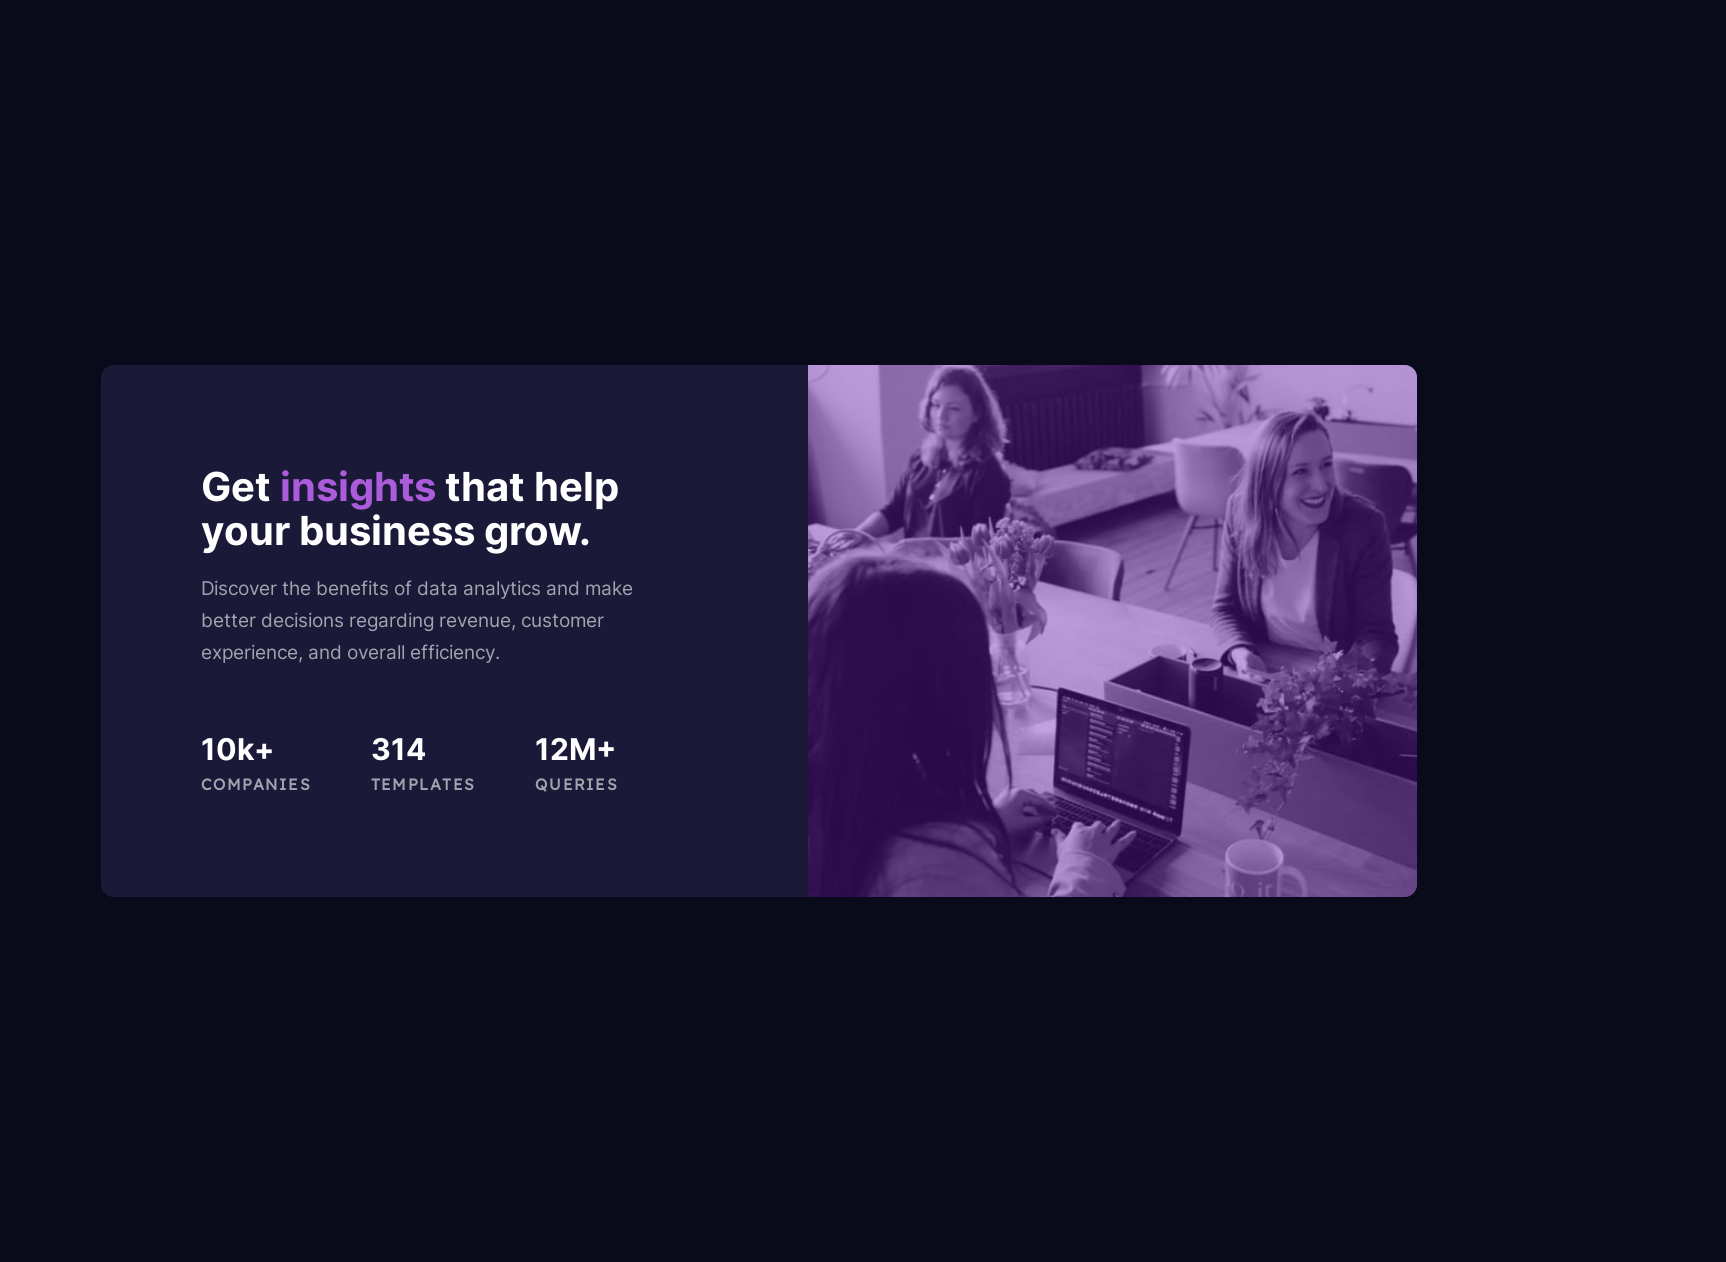
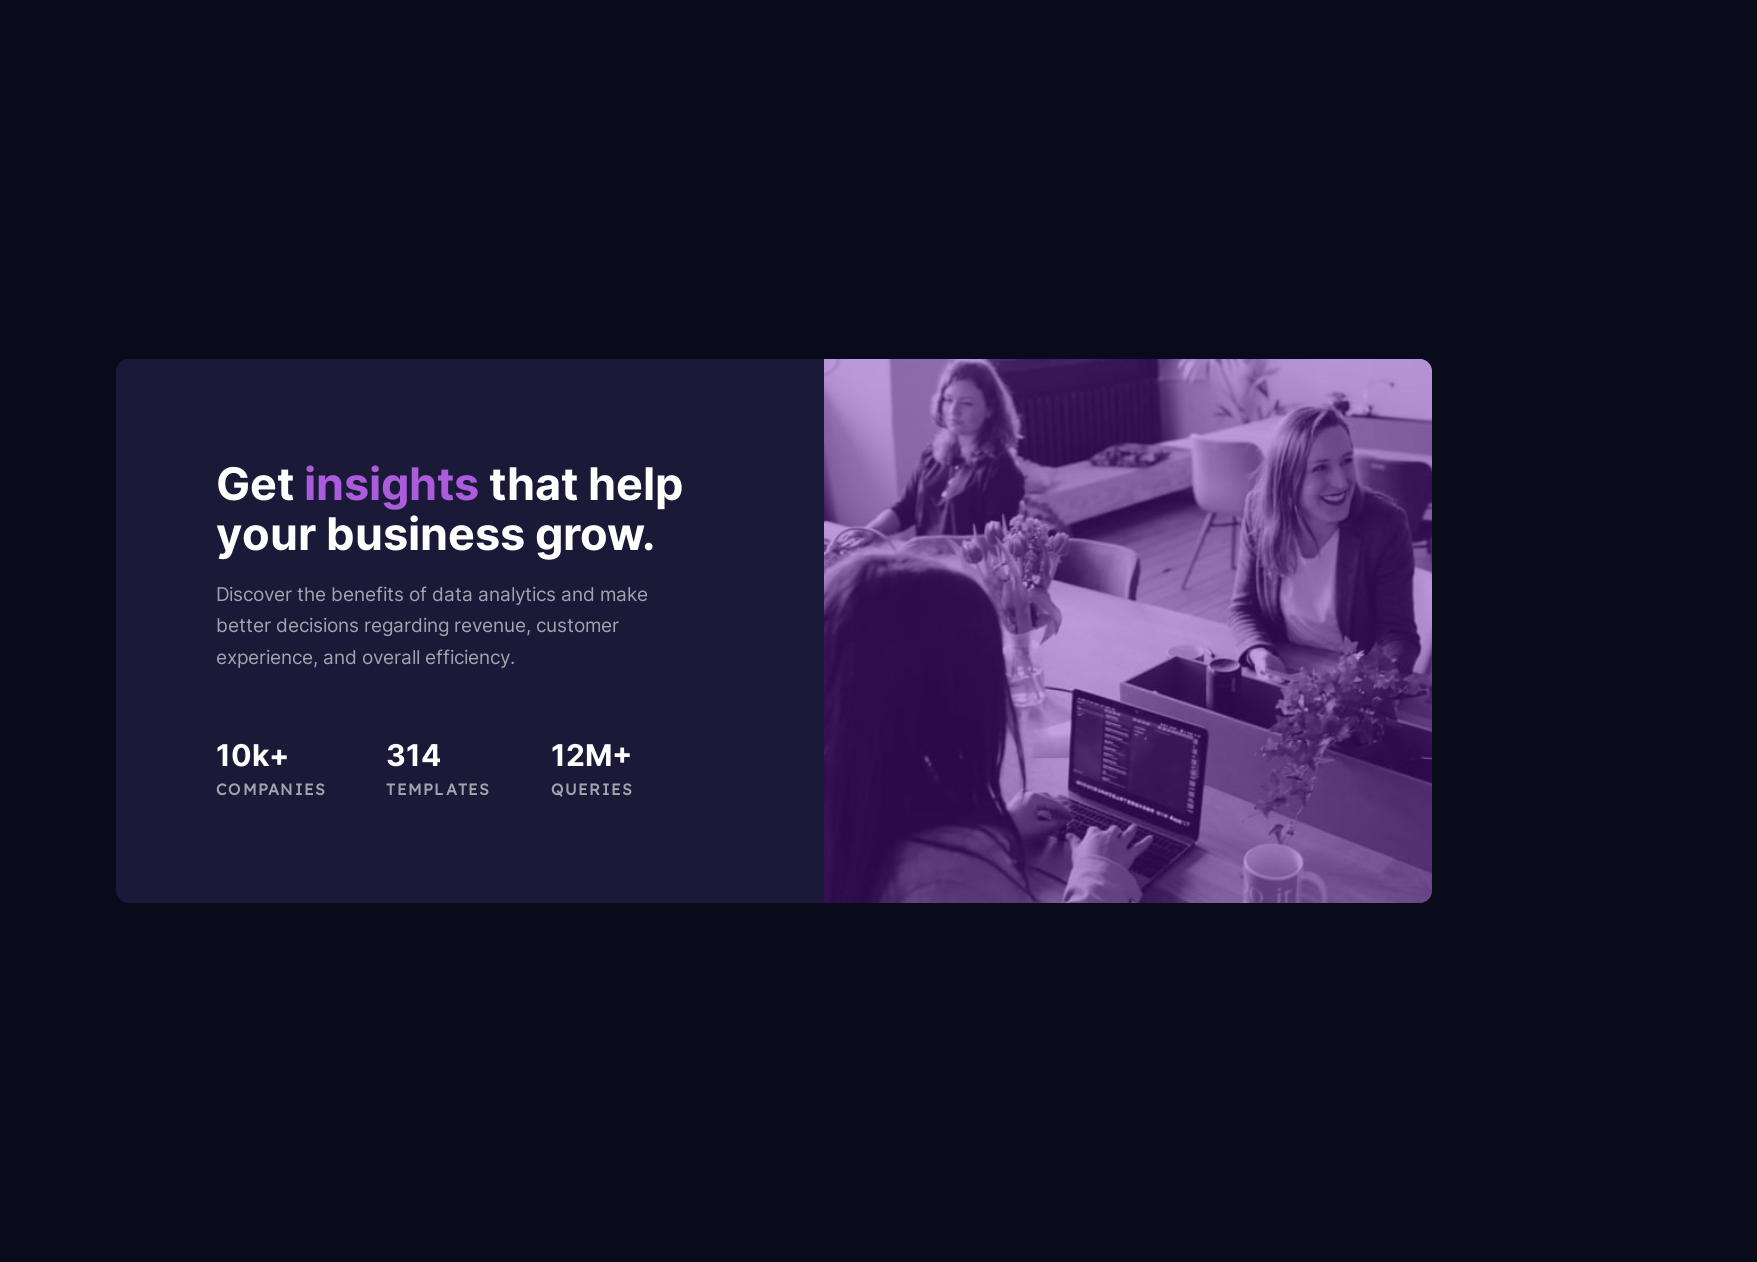
update card size

diff --git a/stats-preview-card-component/style.css b/stats-preview-card-component/style.css
@@ -137,7 +137,7 @@ body {
 @media screen and (min-width: 35em) {
   .card {
     width: 80%;
-    max-width: 1200px;
+    max-width: 1350px;
     flex-direction: row-reverse;
   }
   .card__content {
